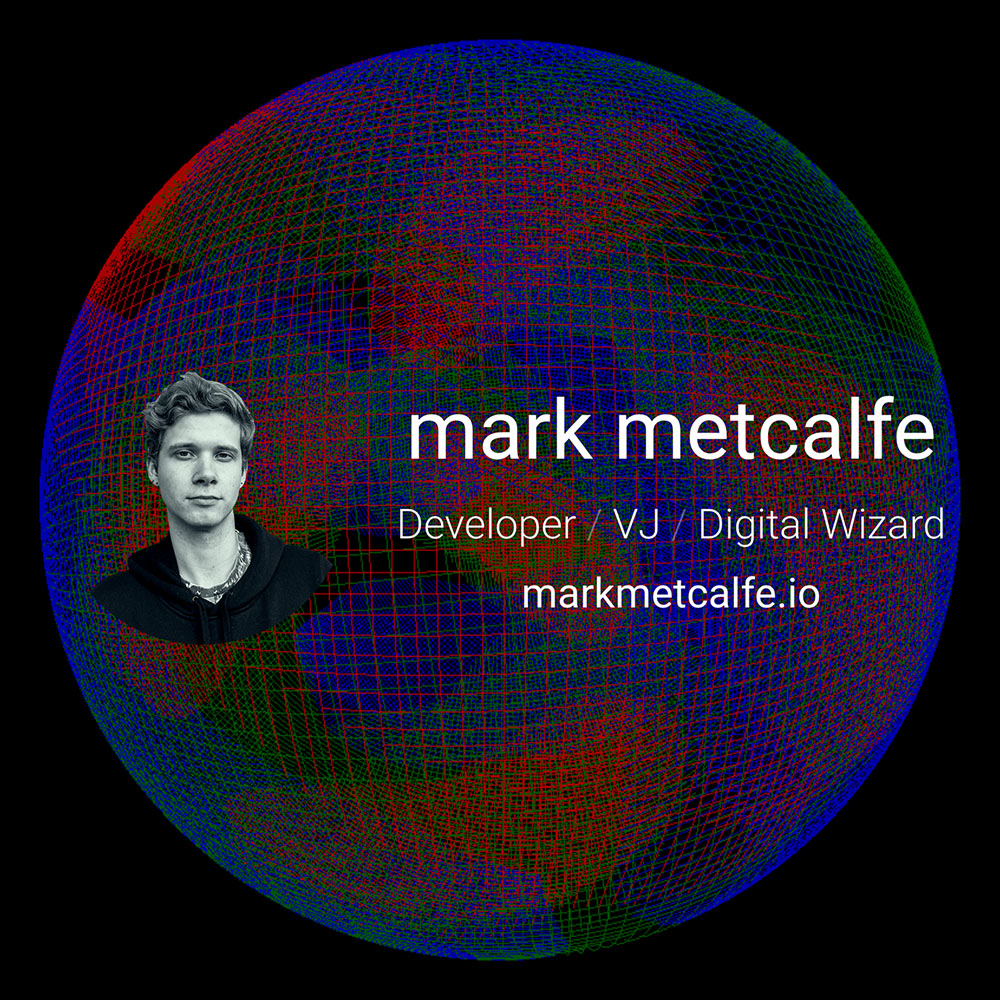
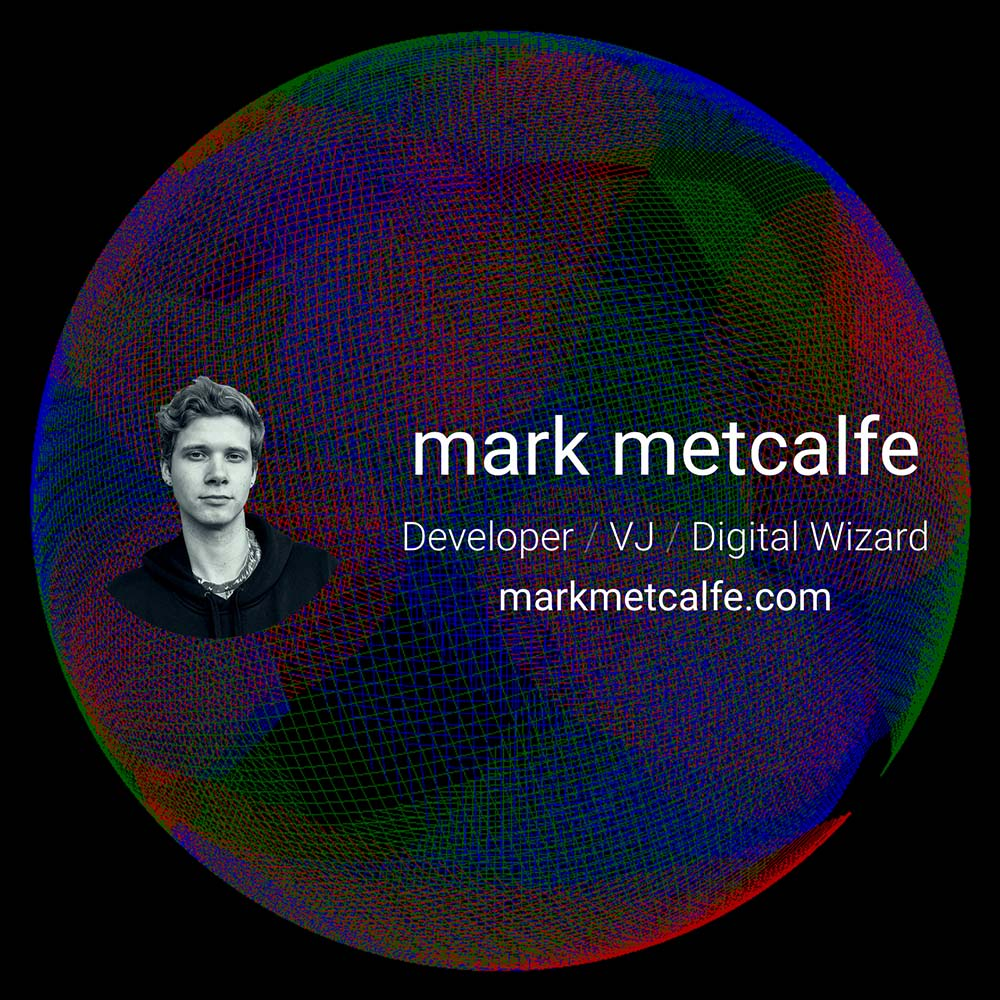
Change to using .com domain

diff --git a/src/pages/PrivacyPolicyPage.vue b/src/pages/PrivacyPolicyPage.vue
@@ -33,7 +33,7 @@
         <p>
           <strong>Company</strong> (referred to as either &quot;the
           Company&quot;, &quot;We&quot;, &quot;Us&quot; or &quot;Our&quot; in
-          this Agreement) refers to markmetcalfe.io.
+          this Agreement) refers to markmetcalfe.com.
         </p>
       </li>
       <li>
@@ -81,12 +81,12 @@
       </li>
       <li>
         <p>
-          <strong>Website</strong> refers to markmetcalfe.io, accessible from
+          <strong>Website</strong> refers to markmetcalfe.com, accessible from
           <a
-            href="https://markmetcalfe.io"
+            href="https://markmetcalfe.com"
             rel="external nofollow noopener"
             target="_blank"
-            >https://markmetcalfe.io</a
+            >https://markmetcalfe.com</a
           >
         </p>
       </li>

diff --git a/src/pages/TermsOfServicePage.vue b/src/pages/TermsOfServicePage.vue
@@ -31,7 +31,7 @@
         <p>
           <strong>Company</strong> (referred to as either &quot;the
           Company&quot;, &quot;We&quot;, &quot;Us&quot; or &quot;Our&quot; in
-          this Agreement) refers to markmetcalfe.io.
+          this Agreement) refers to markmetcalfe.com.
         </p>
       </li>
       <li>
@@ -60,12 +60,12 @@
       </li>
       <li>
         <p>
-          <strong>Website</strong> refers to markmetcalfe.io, accessible from
+          <strong>Website</strong> refers to markmetcalfe.com, accessible from
           <a
-            href="https://markmetcalfe.io"
+            href="https://markmetcalfe.com"
             rel="external nofollow noopener"
             target="_blank"
-            >https://markmetcalfe.io</a
+            >https://markmetcalfe.com</a
           >
         </p>
       </li>

diff --git a/index.html b/index.html
@@ -38,11 +38,11 @@
     />
     <meta
       property="og:image"
-      content="https://markmetcalfe.io/social-card.jpg"
+      content="https://markmetcalfe.com/social-card.jpg"
     />
     <meta
       name="twitter:image"
-      content="https://markmetcalfe.io/social-card.jpg"
+      content="https://markmetcalfe.com/social-card.jpg"
     />
     <meta property="og:type" content="website" />
     <!-- Page Info End -->

diff --git a/src/pages/BusinessCardPage.vue b/src/pages/BusinessCardPage.vue
@@ -15,7 +15,7 @@
             </h2>
           </div>
           <div class="businesscard-row">
-            <h2>markmetcalfe.io</h2>
+            <h2>markmetcalfe.com</h2>
           </div>
         </div>
       </section>

diff --git a/README.md b/README.md
@@ -1,8 +1,8 @@
-# [markmetcalfe.io](https://markmetcalfe.io)
+# [markmetcalfe.com](https://markmetcalfe.com)
 
-[![Playwright Tests](https://github.com/markmetcalfe/markmetcalfe.io/actions/workflows/playwright.yml/badge.svg)](https://github.com/markmetcalfe/markmetcalfe.io/actions/workflows/playwright.yml)
+[![Playwright Tests](https://github.com/markmetcalfe/markmetcalfe.com/actions/workflows/playwright.yml/badge.svg)](https://github.com/markmetcalfe/markmetcalfe.com/actions/workflows/playwright.yml)
 
-The code for my portfolio site located at [markmetcalfe.io](https://markmetcalfe.io)
+The code for my portfolio site located at [markmetcalfe.com](https://markmetcalfe.com)
 
 Written in Vue 3 and Typescript, using the Vite vue framework.
 
